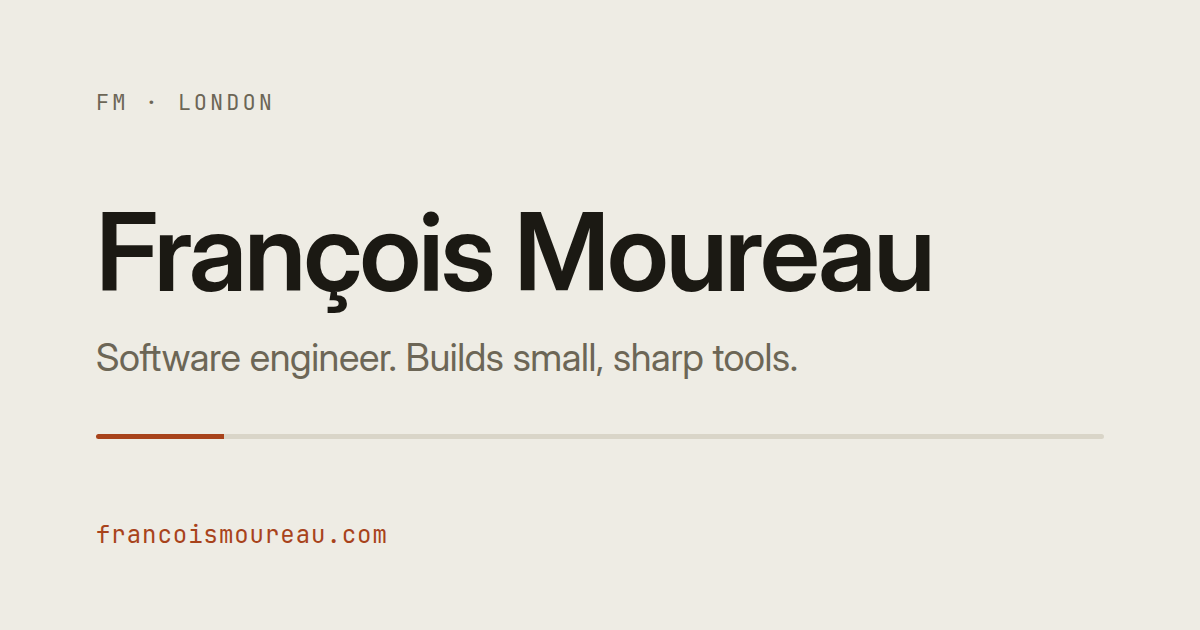
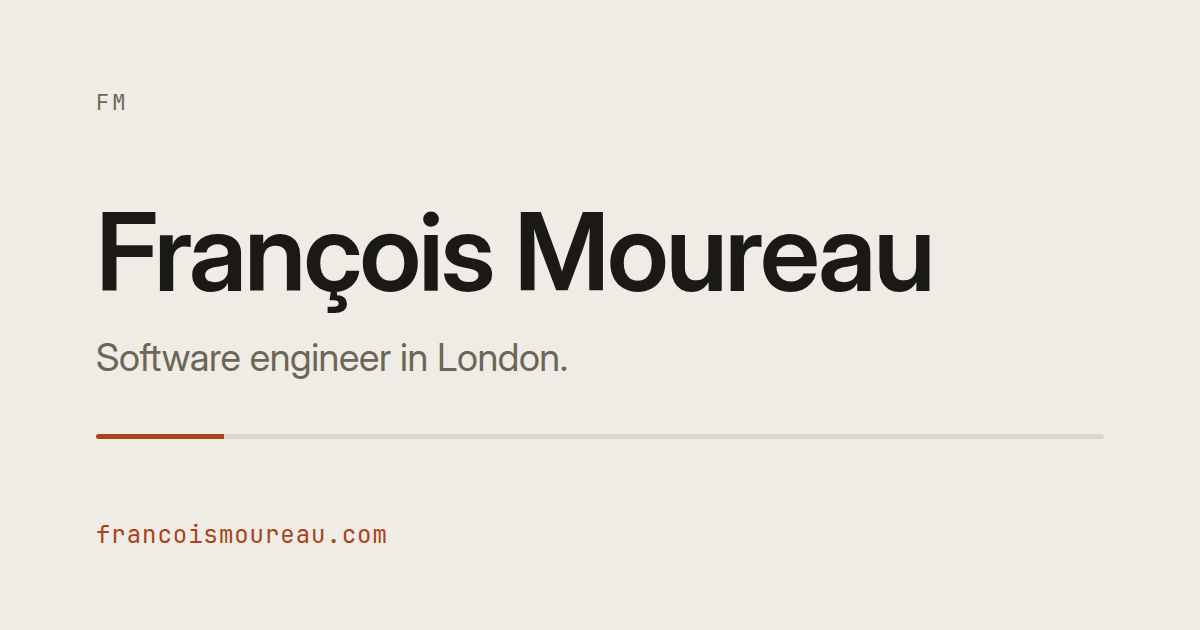
Replace tagline with plain 'Software engineer in London.'
Drops the 'builds small, sharp tools' slogan from the page tagline,
meta descriptions, and the og:image card.

Claude-Session: https://claude.ai/code/session_01Lvej1Y7FxVESujvAroaKHg

Changed region(s): [[0.3392, 0.5429, 0.6783, 0.6032], [0.1542, 0.1508, 0.2467, 0.181]]

diff --git a/index.html b/index.html
@@ -4,18 +4,18 @@
   <meta charset="utf-8">
   <meta name="viewport" content="width=device-width, initial-scale=1">
   <title>François Moureau</title>
-  <meta name="description" content="François Moureau — software engineer in London. Builds small, sharp developer tools.">
+  <meta name="description" content="François Moureau — software engineer in London.">
   <link rel="canonical" href="https://francoismoureau.com/">
   <meta property="og:type" content="website">
   <meta property="og:url" content="https://francoismoureau.com/">
   <meta property="og:title" content="François Moureau">
-  <meta property="og:description" content="Software engineer in London. Builds small, sharp developer tools.">
+  <meta property="og:description" content="Software engineer in London.">
   <meta property="og:image" content="https://francoismoureau.com/og.png">
   <meta property="og:image:width" content="1200">
   <meta property="og:image:height" content="630">
   <meta name="twitter:card" content="summary_large_image">
   <meta name="twitter:title" content="François Moureau">
-  <meta name="twitter:description" content="Software engineer in London. Builds small, sharp developer tools.">
+  <meta name="twitter:description" content="Software engineer in London.">
   <meta name="twitter:image" content="https://francoismoureau.com/og.png">
   <meta name="theme-color" content="#EEECE4" media="(prefers-color-scheme: light)">
   <meta name="theme-color" content="#16140E" media="(prefers-color-scheme: dark)">
@@ -56,7 +56,7 @@
 
     <header>
       <h1 class="reveal">François Moureau</h1>
-      <p class="tagline reveal">Software engineer. Builds small, sharp tools.</p>
+      <p class="tagline reveal">Software engineer in London.</p>
 
       <div class="rule" aria-hidden="true"></div>
 
